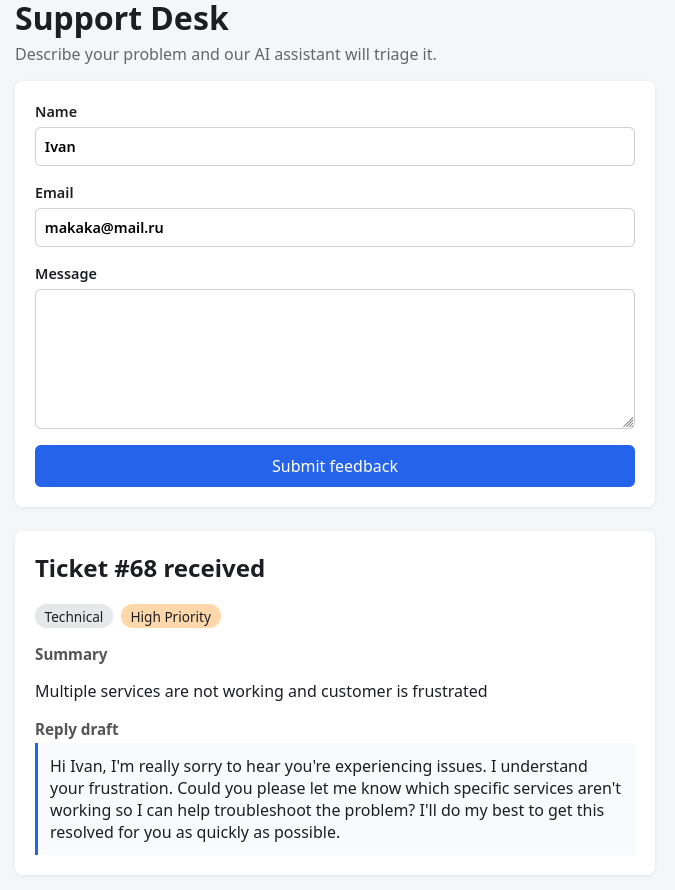
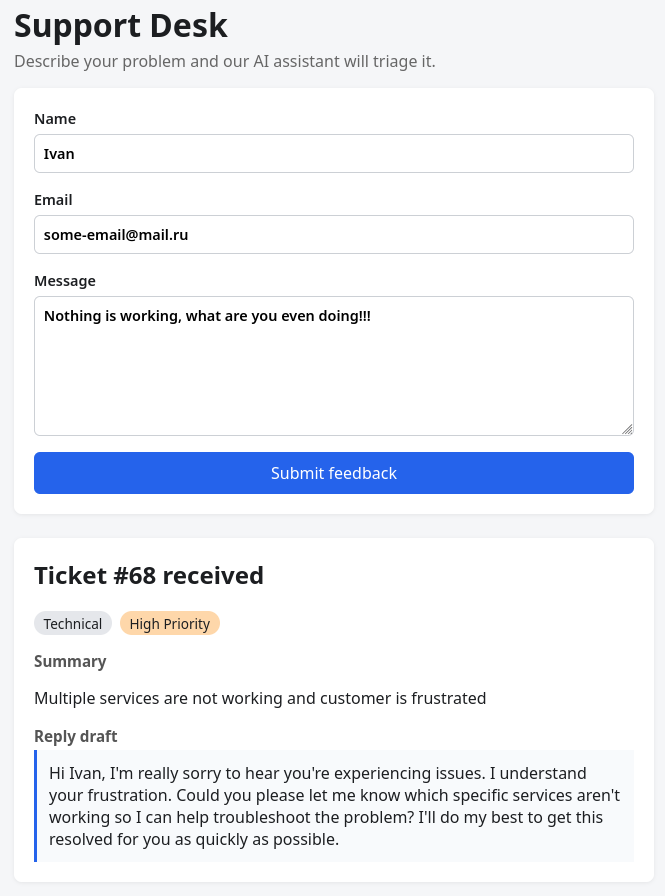
fix readme

diff --git a/README.md b/README.md
@@ -3,7 +3,7 @@
 Vue 3 form -> FastAPI -> PostgreSQL. Each submitted request is analyzed synchronously by an
 OpenAI-compatible LLM, which returns a category, priority, short summary and reply draft.
 
-[Скриншот](image.png)
+![Скриншот](image.png)
 
 ## Run
 
